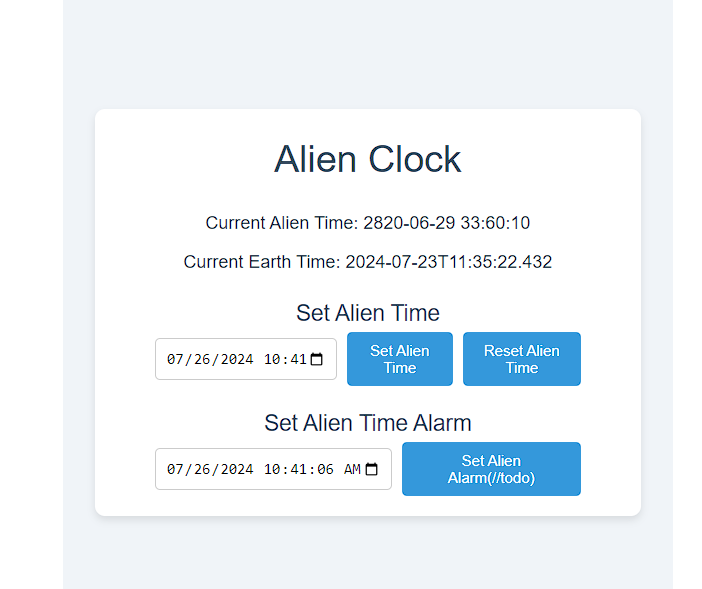
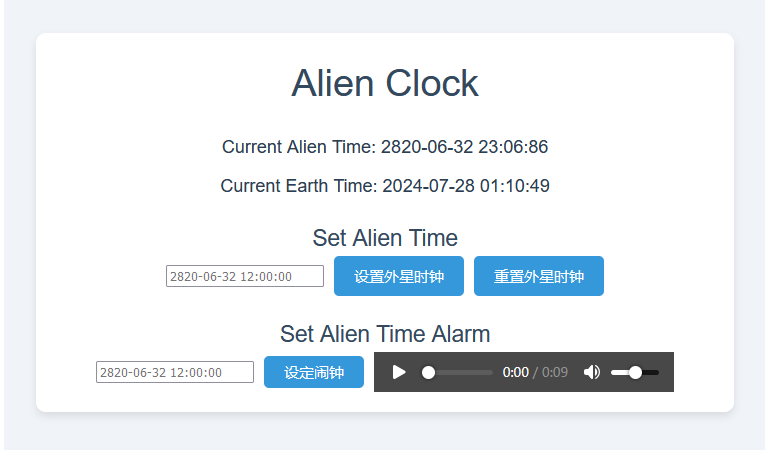
feat: 更新md说明

diff --git a/README.md b/README.md
@@ -13,8 +13,15 @@ SpringBoot: 2.7.18
 ![](./images/AlienClock.jpg)
 
 外星时钟效果图：
-目前还没做闹钟功能
+
 ![](./images/外星时钟效果图.png)
+最新更新时间：2024-27-28
+闹钟功能：到达设定时间后会循环播放[播放的是汤家风老师的励志上课音频]
+新增了时间验证功能
+===================
+遗憾：
+本人对前端不是很熟悉，后端抛出自定义异常前端获取不到，前端只能获取到500异常。
+希望有懂前端的伙伴指导一下，万分感谢。
 
 前端项目起步：
 
